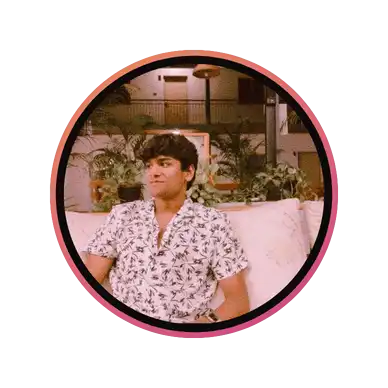
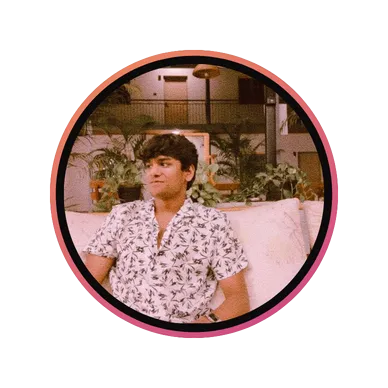
minor changes

Changed region(s): [[0.4948, 0.1546, 0.5258, 0.1856], [0.4021, 0.5876, 0.433, 0.6186]]

diff --git a/components/Header.tsx b/components/Header.tsx
@@ -19,7 +19,7 @@ const Header: React.FC<HeaderProps> = () => {
       <div className="flex ">
         <div className="avatar-img">
           <Avatar className="md:h-56 md:w-56 h-32 w-32">
-            <AvatarImage src="/images/avatar3.png" alt="@satwik" />
+            <AvatarImage src="/images/avatar.webp" alt="@satwik" />
             <AvatarFallback>SA</AvatarFallback>
           </Avatar>
         </div>

diff --git a/app/globals.css b/app/globals.css
@@ -6,10 +6,10 @@
   color-scheme: dark;
 }
 body {
-  background-image: url("/images/bgImage3.png");
+  background-image: url("/images/bgImage.webp");
   background-size: cover;
   background-repeat: repeat;
-  background-position: fixed;
+  background-attachment: fixed;
   overflow-x: hidden;
 }
 
